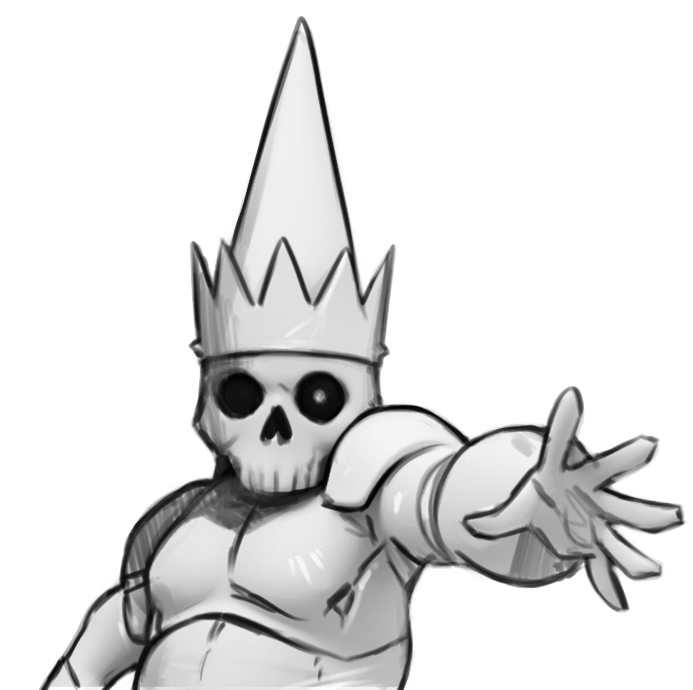
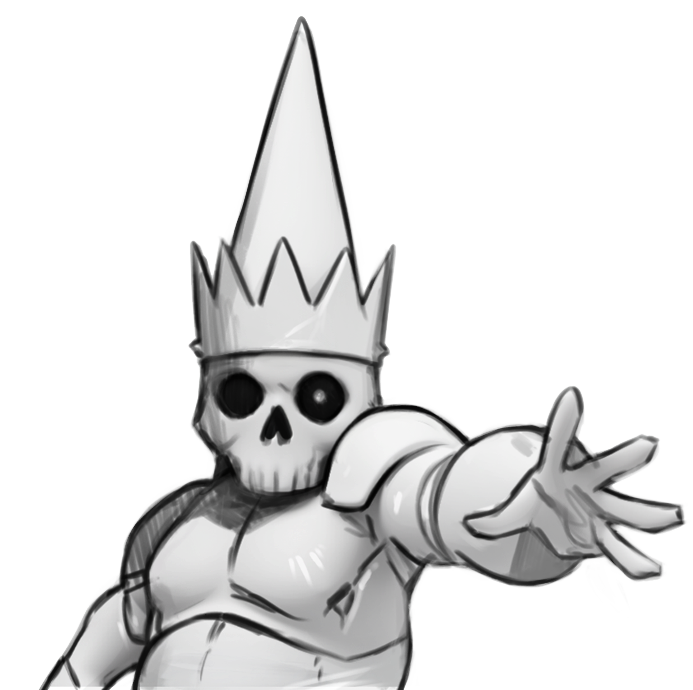
Sync: publicar cambios locales pendientes

Changed region(s): [[0.697, 0.7913, 0.9091, 0.913], [0.7879, 0.7304, 0.8485, 0.7609]]

diff --git a/Historial_Tecnico.md b/Historial_Tecnico.md
@@ -42,6 +42,7 @@
 - Las escenas nuevas de diálogo recuperaron su audio de habla durante el reveal de texto: protagonista y emisario vuelven a reproducir SFX.
 
 ## Tareas Completadas
+- 2026-04-10: Sincronización con GitHub completada (fast-forward de 2 commits en main) y resolución manual de conflicto de merge en Scripts/Levels/NIVEL01.gd conservando cambios remotos y locales.
 - 2026-04-10: Fix del audio del ImpEstandarte en exportación: cambio de carga por filesystem a preload() para que Godot empaquete el archivo en el PCK sin depender de rutas absolutas en runtime.
 - 2026-04-10: Ajuste visual del diálogo de protagonista: el retrato de Erynn salió del flujo del HBox, se colocó como overlay sobre el panel y se amplió el margen izquierdo para despejar el texto.
 - 2026-04-10: Ajuste de layout para diálogos editables: DialogoComic.gd ahora localiza texto y botón por nombre, y las escenas de protagonista y emisario quedaron con retrato/título/texto/botón como nodos independientes para reposicionarlos manualmente.